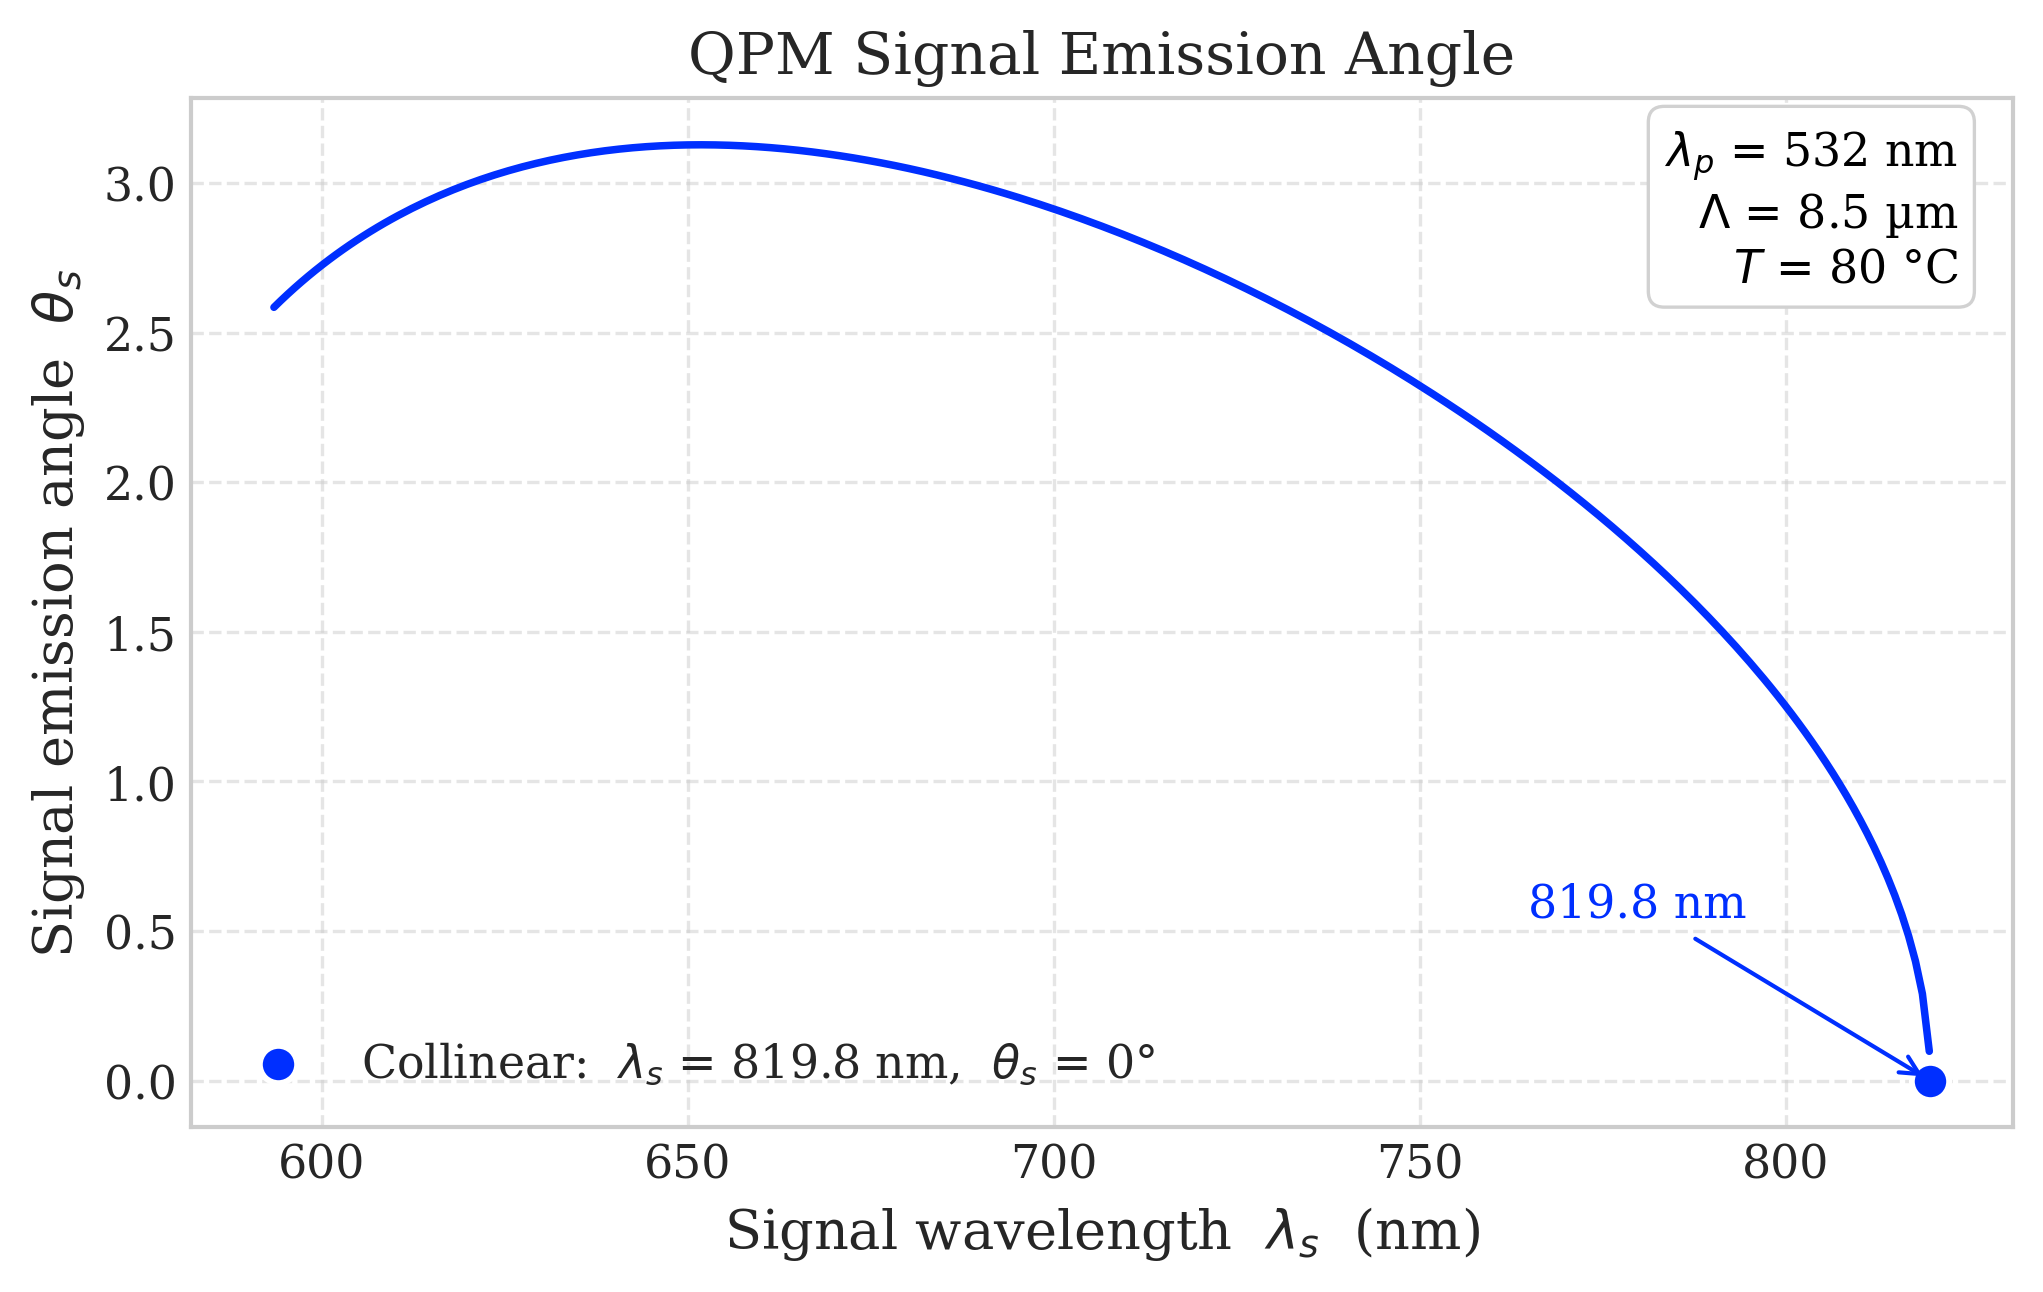
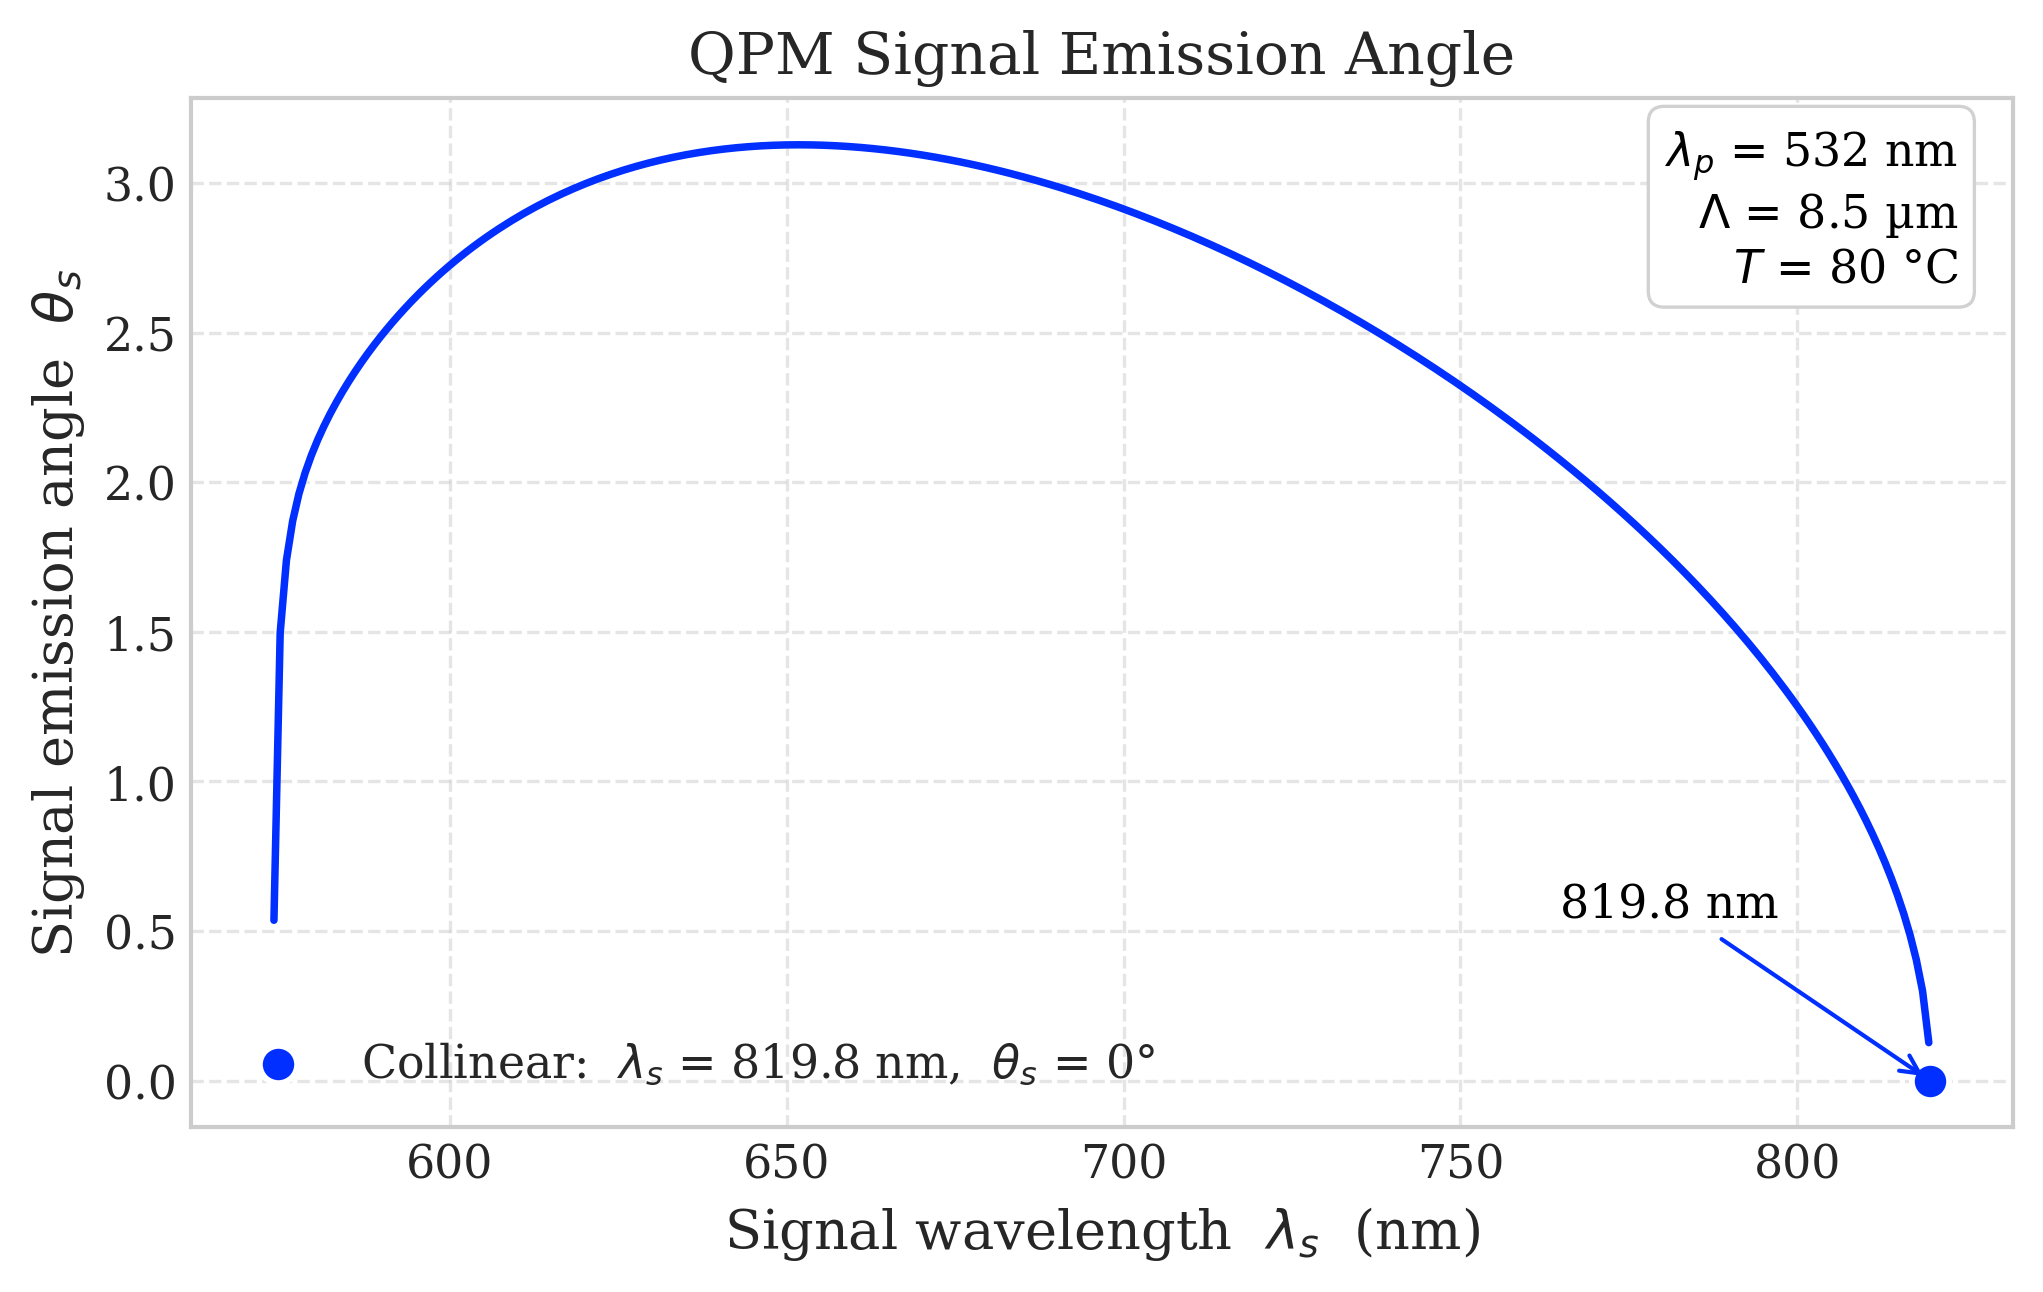
wip

diff --git a/Code/code.py b/Code/code.py
@@ -1,5 +1,5 @@
 """
-Quasi-phase-matched (QPM) parametric down-conversion in MgO:LiNbO₃.
+Quasi-phase-matched (QPM) parametric down-conversion in 1mol% MgO-doped nearly stoichiometric lithium tantalate.
 
 Sweeps over signal wavelengths and, for each, solves the non-collinear
 phase-matching condition to find the signal and idler emission angles.
@@ -9,9 +9,12 @@ Physical process
 ----------------
 A pump photon (λ_p) spontaneously splits into a signal (λ_s) and idler (λ_i)
 photon pair subject to:
+
   - Energy conservation : 1/λ_p = 1/λ_s + 1/λ_i
+
   - Momentum conservation: k_p = k_s * cos θ_s + k_i * cos θ_i  (longitudinal)
                            0   = k_s * sin θ_s - k_i * sin θ_i  (transverse)
+
 The periodic poling provides a reciprocal lattice vector G = 2*pi/Λ which gives
 the momentum condition: k_p = k_s + k_i + G (quasi-phase-matching).
 """
@@ -25,21 +28,66 @@ from scipy.optimize import brentq
 SCRIPT_DIR = Path(__file__).parent
 
 # ---------------------------------------------------------------------------
-# Physical constants / device parameters
+# Physical constants /  parameters
 # ---------------------------------------------------------------------------
 
 LAMBDA_P: float = 532e-9  # Pump wavelength [m]
 POLING_PERIOD: float = 8.5e-6  # Poling period [m]
 G: float = 2 * np.pi / POLING_PERIOD  # Reciprocal lattice vector [rad/m]
-T: float = 80.0  # Crystal temperature [°C]
+T: float = 80.0  # Crystal temperature [C]
 
-# Signal wavelength sweep range
-LAMBDA_S_MIN: float = (
-    LAMBDA_P * 1.05
-)  # 5 % above pump — avoids singularity when lim λ_s --> λ_p
-LAMBDA_S_MAX: float = 1500e-9  # [m]
+
+# ---------------------------------------------------------------------------
+# Find Sellmeier boundaries
+# ---------------------------------------------------------------------------
+
+
+def sellmeier_validity_check(scanspace: np.ndarray) -> np.ndarray:
+    """
+    Evaluate n² across a wavelength scanspace (in µm).
+    Used to identify the valid range of the Sellmeier equation.
+    """
+    x = scanspace
+    A, B, C, D, E, F = 4.54773, 0.0774167, 0.22025, -0.0226143, 2.39494, 7.45352
+    T_K = T + 273.15
+    bT = 4.23526e-8 * T_K**2
+    cT = -6.53227e-8 * T_K**2
+    C_eff = C + cT
+    return A + (B + bT) / (x**2 - C_eff**2) + E / (x**2 - F**2) + D * x**2
+
+
+# Scan Sellmeier over a wide range to find unphysical regions
+refractive_index_scanspace = np.linspace(0.01, 8.0, 100_000)  # µm
+
+vals = sellmeier_validity_check(refractive_index_scanspace)
+
+# n²=0 crossings: formula returns imaginary n (complete breakdown)
+zero_indices = np.where(np.diff(np.sign(vals)))[0]
+crossings_zero_nm = refractive_index_scanspace[zero_indices] * 1e3
+
+# n²=1 crossings: n drops below vacuum (physically meaningless for a dielectric)
+one_indices = np.where(np.diff(np.sign(vals - 1)))[0]
+crossings_one_nm = refractive_index_scanspace[one_indices] * 1e3
+
+print(f"n²=0 crossings: {crossings_zero_nm} nm")
+print(f"n²=1 crossings: {crossings_one_nm} nm")
+print(
+    f"Valid window (n² > 1): {crossings_one_nm[1]:.0f} nm  -->  {crossings_one_nm[2]:.0f} nm"
+)
+
+
+# Signal wavelength sweep range.
+# LAMBDA_S_MIN is derived from the IR validity limit of the Sellmeier equation
+# (n² > 1 up to ~7384 nm at 80°C). Energy conservation links signal and idler:
+#   λ_i = λ_p · λ_s / (λ_s − λ_p)  ≤  LAMBDA_I_MAX
+#   → λ_s ≥ λ_p · LAMBDA_I_MAX / (LAMBDA_I_MAX − λ_p)
+# This guarantees the idler never leaves the valid Sellmeier window.
+LAMBDA_I_MAX: float = 7384e-9  # IR validity cutoff [m]
+LAMBDA_S_MIN: float = LAMBDA_P * LAMBDA_I_MAX / (LAMBDA_I_MAX - LAMBDA_P) * 1.001
+LAMBDA_S_MAX: float = 1500e-9
+
+# number of
 N_SWEEP: int = 1000
-
 
 # ---------------------------------------------------------------------------
 # Core physics functions
@@ -64,7 +112,7 @@ def get_lambda_i(lambda_p: float, lambda_s: float) -> float:
 
 def k_norm(wavelength: float, ref_index: float) -> float:
     """
-    Wave-vector magnitude k = 2π·n / λ inside a medium.
+    Wave-vector magnitude k = 2π * n / λ inside a medium.
 
     Args:
         wavelength: Free-space wavelength [m].
@@ -73,71 +121,25 @@ def k_norm(wavelength: float, ref_index: float) -> float:
     Returns:
         Wave-vector magnitude [rad/m].
     """
-    return (2 * np.pi * ref_index) / wavelength
-
-
-def sellmeier_is_valid(wavelength_m: float, T: float) -> bool:
-    """
-    Return True only if the Sellmeier equation produces a physically
-    meaningful result at this wavelength and temperature.
-
-    Three conditions must ALL be satisfied:
-      1. Wavelength is inside MgO:LiNbO3's nominal transparency window
-         (350 nm – 5200 nm) — the standard experimental range for this
-         Sellmeier parameterisation.
-      2. The computed n² is strictly greater than 1 — necessary for a
-         real refractive index that exceeds vacuum.
-      3. The wavelength is not straddling either Sellmeier pole.
-         The UV pole is at λ_UV = sqrt(C_eff²) ≈ 212 nm,
-         the IR pole is at λ_IR = F             ≈ 7454 nm.
-         Both are well outside the transparency window so condition 1
-         already excludes them; condition 3 is an explicit guard for any
-         future use outside that window.
-
-    Args:
-        wavelength_m: Free-space wavelength [m].
-        T:            Crystal temperature [°C].
-
-    Returns:
-        True if the index is physically meaningful; False otherwise.
-    """
-    LAMBDA_UV_M: float = 350e-9
-    LAMBDA_IR_M: float = 5200e-9
-    if not (LAMBDA_UV_M <= wavelength_m <= LAMBDA_IR_M):
-        return False
-    lam = wavelength_m * 1e6
-    A, B, C, D, E, F = 4.54773, 0.0774167, 0.22025, -0.0226143, 2.39494, 7.45352
-    T_K = T + 273.15
-    bT = 4.23526e-8 * T_K**2
-    cT = -6.53227e-8 * T_K**2
-    C_eff = C + cT
-    uv_denom = lam**2 - C_eff**2
-    ir_denom = lam**2 - F**2
-    if abs(uv_denom) < 1e-10 or abs(ir_denom) < 1e-10:
-        return False
-    n_sq = A + (B + bT) / uv_denom + E / ir_denom + D * lam**2
-    return n_sq > 1.0
+    mag: float = (2 * np.pi * ref_index) / wavelength
+    if mag <= 0:
+        raise ValueError("Invalid wavevector")
+    return mag
 
 
 def sellmeier(wavelength_m: float, T: float) -> float:
     """
-    Temperature-dependent Sellmeier equation for MgO:LiNbO3 (extraordinary axis).
+    Temperature-dependent Sellmeier equation for 1mol% MgO-doped nearly stoichiometric lithium tantalate.
 
     Args:
         wavelength_m: Free-space wavelength [m].
-        T:            Crystal temperature [°C].
+        T:            Crystal temperature [C].
 
     Returns:
-        Extraordinary refractive index n_e.
+        refractive index n_e.
 
-    Raises:
-        ValueError if the wavelength is outside the valid range (350–5200 nm).
     """
-    if not sellmeier_is_valid(wavelength_m, T):
-        raise ValueError(
-            f"Sellmeier equation invalid at λ = {wavelength_m * 1e9:.1f} nm, T = {T}°C. "
-            f"Valid range: 350–5200 nm."
-        )
+
     lam = wavelength_m * 1e6
     A, B, C, D, E, F = 4.54773, 0.0774167, 0.22025, -0.0226143, 2.39494, 7.45352
     T_K = T + 273.15
@@ -161,7 +163,7 @@ def wave_vectors(
         T:        Crystal temperature [°C].
 
     Returns:
-        Tuple (kp, ks, ki) of wave-vector magnitudes [rad/m].
+        Tuple (kp, ks, ki) of wave-vector norms [rad/m].
     """
     return (
         k_norm(lambda_p, sellmeier(lambda_p, T)),
@@ -186,7 +188,7 @@ def phase_mismatch(theta_s: float, ks: float, ki: float, kp: float, G: float) ->
         k_s * cos θ_s + k_i * cos θ_i + G - k_p = 0
 
     Args:
-        theta_s: Signal emission angle w.r.t. pump axis [rad].
+        theta_s: Signal emission angle w.r.t. optical axis [rad].
         ks:      Signal wave-vector magnitude [rad/m].
         ki:      Idler wave-vector magnitude [rad/m].
         kp:      Pump wave-vector magnitude [rad/m].
@@ -199,6 +201,7 @@ def phase_mismatch(theta_s: float, ks: float, ki: float, kp: float, G: float) ->
     arg = (ks / ki) * np.sin(theta_s)
     if np.abs(arg) > 1:
         return np.nan
+    # arg = np.clip(arg, -1, 1) # Use to stabilize numerical instability
     theta_i = np.arcsin(arg)
     return ks * np.cos(theta_s) + ki * np.cos(theta_i) + G - kp
 
@@ -279,8 +282,6 @@ def run_sweep(
     results = []
     for ls in np.linspace(lambda_s_min, lambda_s_max, n_sweep):
         li = get_lambda_i(lambda_p, ls)
-        if not (sellmeier_is_valid(ls, T) and sellmeier_is_valid(li, T)):
-            continue
         kp, ks, ki = wave_vectors(lambda_p, ls, li, T)
         theta_max = np.arcsin(min(1.0, ki / ks)) if ks >= ki else np.pi / 2
         bracket_high = theta_max * 0.9999
@@ -370,7 +371,7 @@ def plot_results(results: list[dict], ls_collinear: float) -> None:
         xy=(ls_collinear * 1e9, 0),
         xytext=(ls_collinear * 1e9 - 55, 0.55),
         fontsize=SMALL,
-        color=TEAL,
+        color="black",
         arrowprops=dict(arrowstyle="->", color=TEAL, lw=1.0),
     )
     ax.text(
@@ -423,14 +424,14 @@ def plot_results(results: list[dict], ls_collinear: float) -> None:
         arrowprops=dict(arrowstyle="->", color=ORANGE, lw=1.0),
     )
     ax.text(
-        0.97,
+        0.03,
         0.97,
         params,
         transform=ax.transAxes,
         fontsize=SMALL,
         color="0",
         va="top",
-        ha="right",
+        ha="left",  # ← was "right"
         bbox=dict(
             boxstyle="round,pad=0.35",
             facecolor="white",
@@ -441,7 +442,7 @@ def plot_results(results: list[dict], ls_collinear: float) -> None:
     ax.set_xlabel("Idler wavelength  $\\lambda_i$  (nm)")
     ax.set_ylabel("Idler emission angle  $\\theta_i$")
     ax.set_title("QPM Idler Emission Angle")
-    ax.legend()
+    ax.legend(loc="lower right")
     ax.grid(alpha=0.5, linestyle="--")
     fig.tight_layout()
     fig.savefig(SCRIPT_DIR / "qpm_idler.png", dpi=300, bbox_inches="tight")
@@ -486,6 +487,7 @@ def main() -> None:
     )
 
     plot_results(results, ls_collinear)
+    plt.show()
 
 
 if __name__ == "__main__":